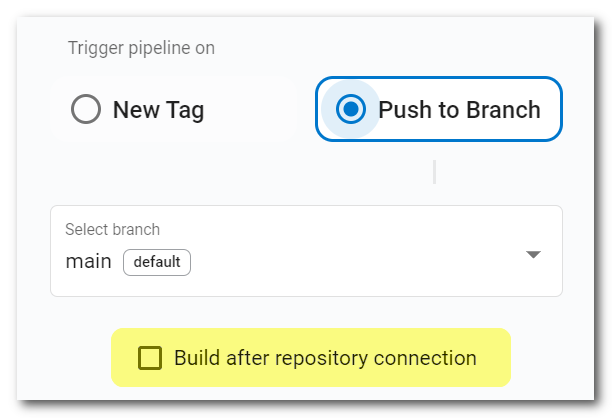
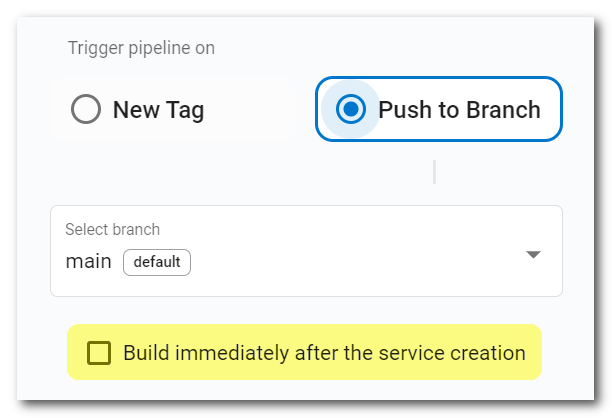
docs(services): shared storage

Changed region(s): [[0.0931, 0.7775, 0.9003, 0.933]]

diff --git a/src/.vuepress/config.js b/src/.vuepress/config.js
@@ -65,7 +65,8 @@ module.exports = {
                 'overview/how-zerops-works-inside/typical-schemas-of-zerops-projects',
                 'overview/how-zerops-works-inside/php-cluster-internally',
                 'overview/how-zerops-works-inside/mariadb-galera-cluster-internally',
-                'overview/how-zerops-works-inside/ceph-cluster-internally'
+                'overview/how-zerops-works-inside/ceph-cluster-internally',
+                'overview/how-zerops-works-inside/glusterfs-cluster-internally'
               ]
             }
           ]

diff --git a/src/documentation/services/storage/shared.md b/src/documentation/services/storage/shared.md
@@ -1,1 +1,50 @@
 # Shared storage
+
+Zerops provides a fully managed and scaled **shared storage** service (replicated volume) based on the [GlusterFS](https://docs.gluster.org) cluster technology, suitable for both development and production projects using any load. You can choose any option you want and be sure that it will work.
+
+[[toc]]
+
+## Adding the Shared Storage Service in Zerops
+
+### Shared storage name
+
+Choose a short and descriptive URL-friendly name, for example, **disk**. The following rules apply:
+
+* maximum length **==25==** characters,
+* only lowercase ASCII letters **==a-z==** and numbers **==0-9==**,
+* **==has to be unique==** in relation to other existing project's hostnames,
+* the shared storage name **==can't be changed==** later.
+
+<!-- markdownlint-disable DOCSMD004 -->
+::: info Relation between shared storage names and hostnames
+There's only one namespace for all service hostnames, shared storage names, and object storage names. Each one of them has to be unique against the others.
+:::
+<!-- markdownlint-enable DOCSMD004 -->
+
+### Storage mounting
+
+A shared storage disk can only be mounted to runtime environment services ([PHP](/documentation/services/runtimes/php.html#accessing-a-zerops-shared-storage), Node.js, Golang).
+
+The mounting is done automatically by **enabling** the corresponding switch for an already existed runtime service to which you want to mount the storage. When you want to do it anytime later after creating the service, return to its **Storage configuration** section on the service details and do the same change.
+
+![Shared Storage](./images/Mount-Shared-Storage.png "Mount a Shared Storage")
+
+The previous picture means that the path to the root of such mounted shared storage disk in the PHP service is ==`/mnt/app`== . If you would enable the switch also for **api** (Node.js service), the path could be ==`/mnt/api`== . Here, your application code can create any directory structure and content you need. Access rights are slightly different for each runtime environment. See details for [PHP](/documentation/services/runtimes/php.html#accessing-a-zerops-shared-storage), Node.js, or Golang.
+
+<!-- markdownlint-disable DOCSMD004 -->
+::: info 
+If you would like to learn more about the technical details and how this service is internally built, take a look at the [Shared Storage Service, Internal](/documentation/overview/how-zerops-works-inside/glusterfs-cluster-internally.html).
+:::
+<!-- markdownlint-enable DOCSMD004 -->
+
+## Default hardware configuration and autoscaling
+
+* Shared storage service is always instantiated only in HA mode with **3 containers**. It means that any files are always replicated through 3 different physical places. A non-HA version isn't available.
+* Each of them runs in a different container located on a **different physical machine** and starts with 1 vCPU, 0.25 GB RAM, and 5 GB of disk space.
+* Zerops will automatically scale the resources **only vertically** (up to 32 vCPU, 64 GB RAM, 1 TB disk space).
+
+## How to browse the content
+
+You can use **File browser** functionality available in all runtime services to view folders, files, and their contents & attributes of mounted shared storage disks at the path `/mnt/`.
+
+![Shared Storage](./images/Mounted-Shared-Storage-Content.png "Mounted Shared Storage Content")

diff --git a/src/documentation/overview/pricing.md b/src/documentation/overview/pricing.md
@@ -20,9 +20,9 @@ Any team member can create as many projects as necessary to cover each environme
 
 ## Services
 
-Each [service](/documentation/overview/projects-and-services-structure.html#service) (except S3 object storage) you include into the [project](/documentation/overview/projects-and-services-structure.html#project) can be added either as non-HA [High Availability] (useful for development / test projects), which means it will run on a single container, or HA (a must-have for production projects), which means it will run on at least [three containers](/documentation/ha/why-should-i-want-high-availability.html). Each container starts with 1 vCPU, 250 MB RAM (with scaling up by 250 MB increments), and 5 GB of SSD disk space (with scaling up by 0.5 GB increments). All hardware resources can be automatically scaled both horizontally (increasing the number of containers) and vertically (adding resources).
+Each [service](/documentation/overview/projects-and-services-structure.html#service) (except S3 object storage) you include into the [project](/documentation/overview/projects-and-services-structure.html#project) can be added either as non-HA [High Availability] (useful for development/test projects), it will run on a single container, or HA (a must-have for production projects), it will run on at least [three containers](/documentation/ha/why-should-i-want-high-availability.html). Based on your choice, the hourly cost will change accordingly. Each container starts with 1 vCPU, 250 MB RAM (scaling up by 250 MB increments), and 5 GB of SSD disk space (scaling up by 0.5 GB increments). All hardware resources can be automatically scaled both horizontally (increasing the number of containers) and vertically (adding resources).
 
-While adding a new service (except S3 object storage), you can choose whether you want it in HA (3 containers) or non-HA (1 container) mode, and the hourly cost will change accordingly. HA mode can't be changed later. We, however, plan to implement service cloning, allowing you safe migration back. Currently, it's not possible to create non-HA database/message broker/shared storage services but this limitation will be removed soon.
+**HA mode can't be changed later.** We, however, plan to implement service cloning, allowing you safe migration back. Currently, it's not possible to create non-HA database/message broker/shared storage services but this limitation will be removed soon.
 
 <!-- markdownlint-disable DOCSMD004 -->
 ::: tip Cost of stopped services

diff --git a/src/documentation/overview/how-zerops-works-inside/glusterfs-cluster-internally.md b/src/documentation/overview/how-zerops-works-inside/glusterfs-cluster-internally.md
@@ -1,0 +1,13 @@
+# Shared Storage Service, Internal
+
+The following image shows a simplified schema of a [Zerops Shared Storage Service](/documentation/services/storage/shared.html) based on the [GlusterFS cluster](https://docs.gluster.org/en/latest/Quick-Start-Guide/Architecture) technology.
+
+A **gluster volume** in Zerops is a collection of 3 [containers](https://linuxcontainers.org/#LXD). Management **Gluster deamons** run on each container and manage brick processes (**GlusterFS deamons**), which in turn export the underlying on disk storage (XFS filesystem).
+
+The **gluster native client** process mounts the volume and exposes the storage from all the bricks as a single unified storage namespace to the applications accessing it. I/O from the applications is routed to different bricks based on internal optimization mechanisms and rules.
+
+The following picture supposes that the shared storage has been mounted in two [runtime services](/documentation/services/storage/shared.html#storage-mounting) with hostnames ==**app**== and ==**api**== .
+
+![Zerops Shared Storage Service](./images/Zerops-GlusterFS-Service-Detail.png "Zerops Shared Storage Service")
+
+An independent **scaling controller** monitors and controls [vertical scaling](/documentation/automatic-scaling/how-automatic-scaling-works.html#vertical-scaling) (vCPU, RAM, Disk) for all brick containers. To ensure optimal performance, the cluster is configured and run with 3 brick instances, and [horizontal scaling](/documentation/automatic-scaling/how-automatic-scaling-works.html#horizontal-scaling) (number of containers) doesn't play any role in this case. An independent **repair controller** is then responsible for removing any containers that exhibit abnormal behavior and subsequently for replacing them with new ones.

diff --git a/src/documentation/services/runtimes/php.md b/src/documentation/services/runtimes/php.md
@@ -111,7 +111,7 @@ Even when using the non-HA mode for a production project, we nonetheless recomme
 
 You have **two ways** how you can deliver application code to the service. Either a direct connection to a [GitHub](/documentation/github/github-integration.html) or [GitLab](/documentation/gitlab/gitlab-integration.html) repository or using the Zerops **zcli** [push](/documentation/cli/available-commands.html#push-project-name-service-name) or [deploy](/documentation/cli/available-commands.html#deploy-project-name-service-name-space-separated-files-or-directories) commands.
 
-When a Zerops service has been connected to a GitHub or GitLab repository, you can select the checkbox `Build after repository connection` to run the first build immediately after the service creation. Otherwise, you have to make a **new commit/tag** to invoke that first [build & deploy](http://localhost:8081/documentation/build/how-zerops-build-works.html) pipeline task.
+When a Zerops service has been connected to a GitHub or GitLab repository, you can select the checkbox `Build immediately after the service creation` to run the first build immediately after the service creation. Otherwise, you have to make a **new commit/tag** to invoke that first [build & deploy](http://localhost:8081/documentation/build/how-zerops-build-works.html) pipeline task.
 
 ![Service connected to a Repository](./images/Repository-Triggering-Tag-Commit.png "Repository triggering on a Tag/Commit")
 

diff --git a/src/documentation/overview/projects-and-services-structure.md b/src/documentation/overview/projects-and-services-structure.md
@@ -50,7 +50,7 @@ A project can contain an [unlimited number of services](/documentation/overview/
 
 ### Runtime environments
 
-[Node.js](/documentation/services/runtimes.html#node-js), [Golang](/documentation/services/runtimes.html#golang), [PHP](/documentation/services/runtimes.html#php)
+[Node.js](/documentation/services/runtimes.html#node-js), [Golang](/documentation/services/runtimes.html#golang), [PHP](/documentation/services/runtimes/php.html)
 
 ### Static web server services
 
@@ -70,4 +70,4 @@ A project can contain an [unlimited number of services](/documentation/overview/
 
 ### Storage services
 
-[Shared storage](/documentation/services/storage.html#shared-storage), [S3 compatible Object Storage](/documentation/services/storage.html#s3-compatible-object-storage)
+[Shared storage](/documentation/services/storage.html#shared-storage), [S3 compatible Object Storage](/documentation/services/storage/s3.html)

diff --git a/src/documentation/services/storage/s3.md b/src/documentation/services/storage/s3.md
@@ -32,6 +32,12 @@ Choose a short and descriptive URL-friendly name, for example, **store**. The fo
 * the object storage name **==can't be changed==** later.
 
 <!-- markdownlint-disable DOCSMD004 -->
+::: info Relation between object storage names and hostnames
+There's only one namespace for all service hostnames, shared storage names, and object storage names. Each one of them has to be unique against the others.
+:::
+<!-- markdownlint-enable DOCSMD004 -->
+
+<!-- markdownlint-disable DOCSMD004 -->
 ::: info
 The object storage name is also automatically used to create a user account under which all buckets and objects are subsequently created. This user is, therefore, their **owner with full access rights**. See [Object storage owner identity](#object-storage-owner-identity) section for more info. ==**You can't create any new users on your own.**==
 
